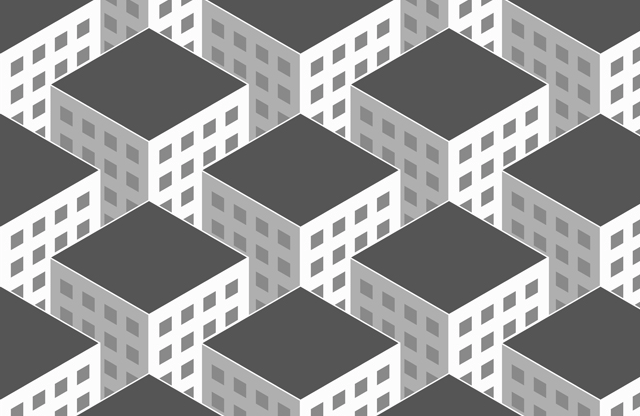
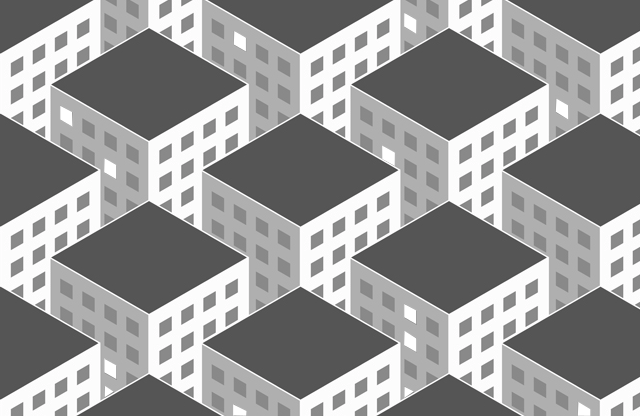
Lights added to the metropolis image

diff --git a/assets/screen.css b/assets/screen.css
@@ -49,6 +49,24 @@ a img {
 article, aside, details, figcaption, figure, footer, header, hgroup, main, menu, nav, section, summary {
   display: block; }
 
+@-moz-keyframes background-color {
+  from {
+    background-position: 0; }
+
+  to {
+    background-position: 100%; } }
+@-webkit-keyframes background-color {
+  from {
+    background-position: 0; }
+
+  to {
+    background-position: 100%; } }
+@keyframes background-color {
+  from {
+    background-position: 0; }
+
+  to {
+    background-position: 100%; } }
 @-moz-keyframes rotate-border {
   0% {
     -moz-transform: rotate(45deg);
@@ -820,6 +838,14 @@ html body {
       content: url(../assets/isometropolis.png);
       max-width: 31.25em;
       max-height: 18.75em;
+      background-image: -moz-linear-gradient(left, #878787, #ffff00, #878787);
+      background-image: -o-linear-gradient(left, #878787, #ffff00, #878787);
+      background-image: -webkit-linear-gradient(left, #878787, #ffff00, #878787);
+      background-image: linear-gradient(to right, #878787, #ffff00, #878787);
+      background-size: 50% 100%;
+      -webkit-animation: background-color 5s infinite;
+      -moz-animation: background-color 5s infinite;
+      animation: background-color 5s infinite;
       overflow: hidden;
       display: inline-block;
       margin-top: 1.25em; }

diff --git a/assets/pages.scss b/assets/pages.scss
@@ -46,6 +46,12 @@ html {
                 content: url(../assets/isometropolis.png);
                 max-width: $text-width;
                 max-height: row(3);
+                //content: ' ';
+                //width: $text-width;
+                //height: row(3);
+                @include background-image(linear-gradient(left, #878787, yellow, #878787));
+                background-size: 50% 100%;
+                @include animation(background-color 5s infinite);
                 overflow: hidden;
                 display: inline-block;
                 margin-top: $gutter;

diff --git a/assets/animations.scss b/assets/animations.scss
@@ -1,3 +1,14 @@
+@include keyframes(background-color) {
+  from {
+    background-position: 0;
+  }
+  
+  to {
+    background-position: 100%;
+  }
+}
+
+
 @include keyframes(rotate-border) {
   @for $i from 45 through 90 {
     $percent: 0% + $i - 45;
